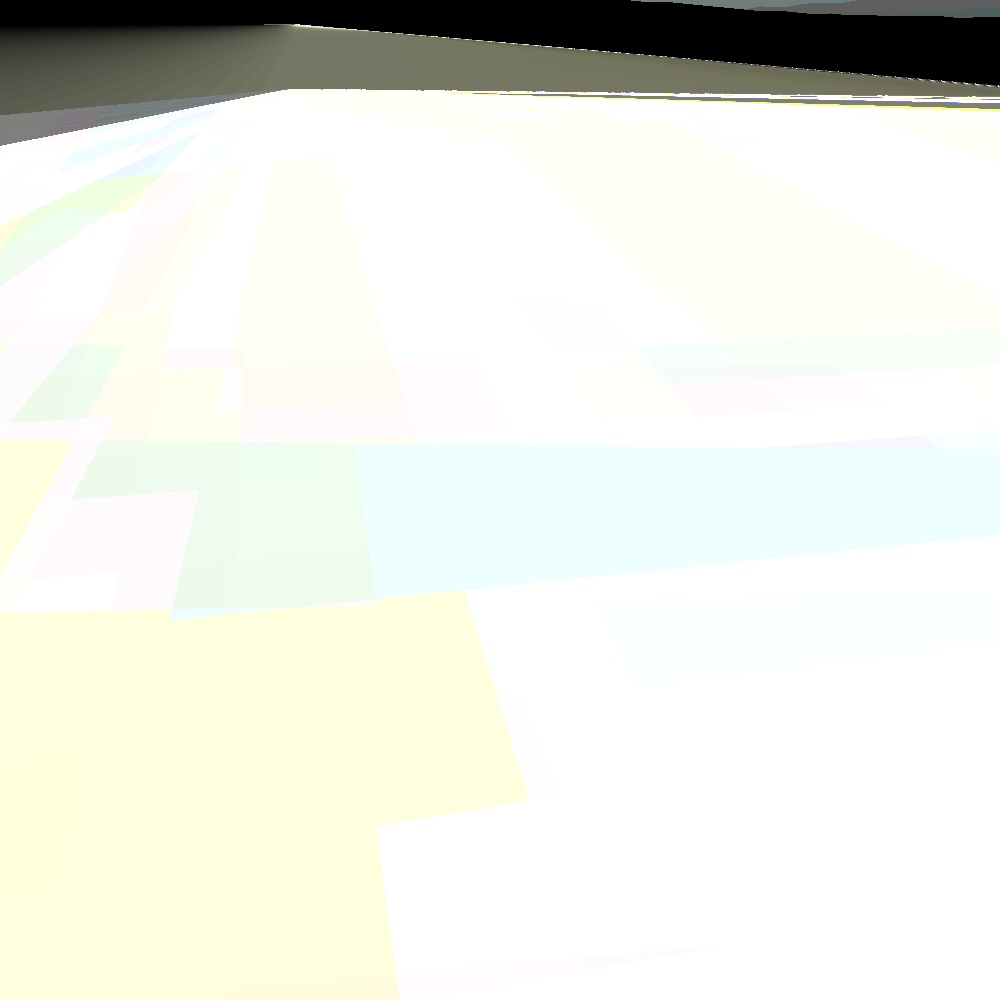
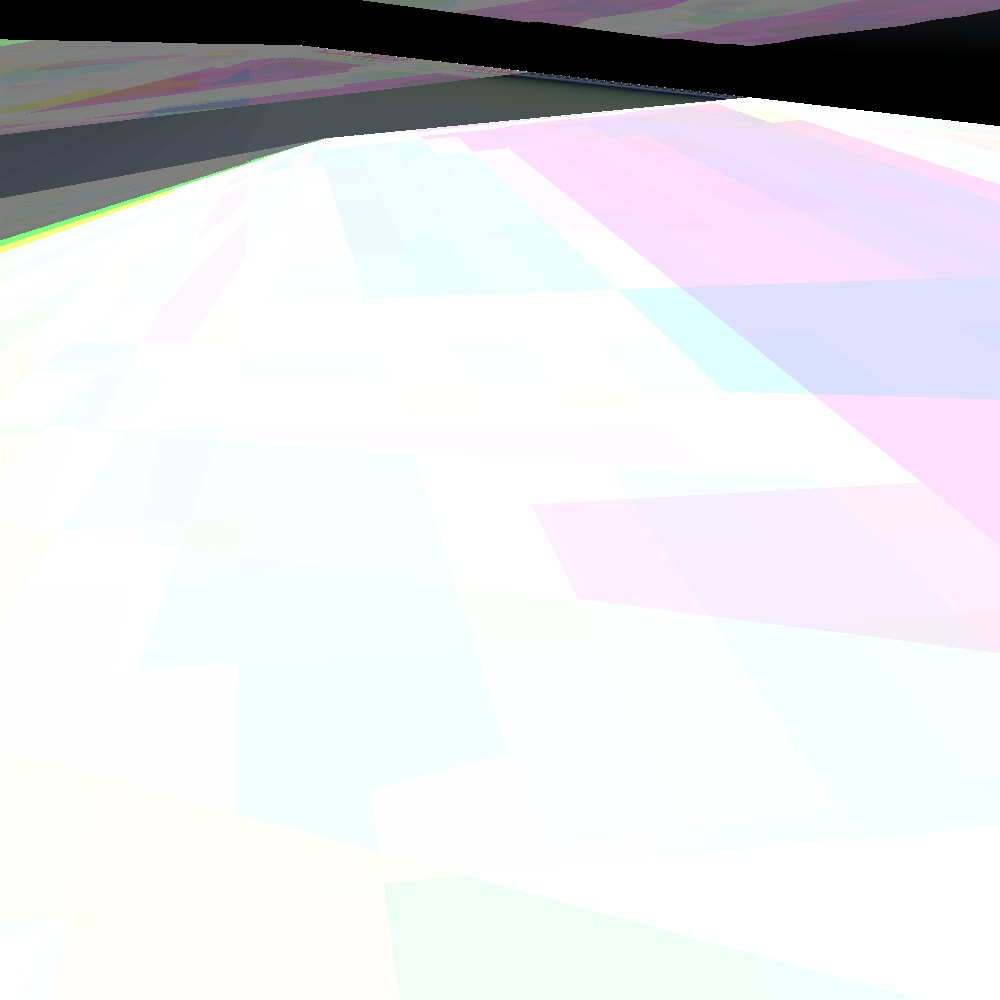
1129 0230

diff --git a/test.py b/test.py
@@ -1,0 +1,167 @@
+import cv2
+import numpy as np
+import pickle
+import threading
+import time
+
+
+def capture_frame(camera_index, results, lock):
+
+    cap = cv2.VideoCapture(camera_index)
+    if not cap.isOpened():
+        print(f"Cannot open camera {camera_index}")
+        return
+
+    time.sleep(0.1) 
+
+    ret, frame = cap.read()
+    if ret:
+        with lock:
+            results[camera_index] = frame
+    else:
+        print(f"Failed to grab frame from camera {camera_index}")
+    cap.release()
+
+def capture_images():
+
+    camera_indices = ['/dev/video0', '/dev/video4', '/dev/video8', '/dev/video25']
+    threads = []
+    results = {}
+    lock = threading.Lock()
+
+    # ? ???? ?? ????? ??
+    for idx in camera_indices:
+        thread = threading.Thread(target=capture_frame, args=(idx, results, lock))
+    
+        threads.append(thread)
+        thread.start()
+
+    # ?? ???? ??? ??? ??? ??
+    for thread in threads:
+        thread.join()
+
+    # ??? ??? ??? ???? ???? ??
+    return [results[idx] for idx in camera_indices if idx in results]
+
+def load_calibration_data(camera_indices):
+    calibration_data = {}
+    for idx in camera_indices:
+        with open(f'calibration_data_camera{idx}.pkl', 'rb') as f:
+            data = pickle.load(f)
+            calibration_data[idx] = {
+                'K': data['K'],
+                'D': data['D'],
+            }
+    return calibration_data
+
+def undistort_images(images, calibration_data):
+    undistorted_images = []
+    for idx, img in enumerate(images):
+        data = calibration_data[idx]
+        K = data['K']
+        D = data['D']
+        h, w = img.shape[:2]
+
+        new_K = cv2.fisheye.estimateNewCameraMatrixForUndistortRectify(
+            K, D, (w, h), np.eye(3), balance=0.0
+        )
+
+        map1, map2 = cv2.fisheye.initUndistortRectifyMap(
+            K, D, np.eye(3), new_K, (w, h), cv2.CV_16SC2
+        )
+
+        undistorted_img = cv2.remap(img, map1, map2, interpolation=cv2.INTER_LINEAR)
+        undistorted_images.append(undistorted_img)
+    return undistorted_images
+
+    
+def create_bev(calibration_data):
+    camera_indices = [0, 1, 2, 3]
+
+    # 1. ??? ??
+    images = capture_images()
+    if images is None:
+        print("???? ??? ? ????.")
+        return None
+    
+    undistorted_images = undistort_images(images, calibration_data)
+
+    camera_indices = [0, 1, 2, 3]
+    
+    # ? ???? ?? ?? ?? (???? ? ??? ??)
+    
+    source_points_list = [
+        np.float32([[6, 213], [632, 196], [26, 476], [629, 441]]),  # ??? 0
+        np.float32([[53, 210], [594, 197], [78, 472], [629, 432]]),  # ??? 1
+        np.float32([[112, 244], [565, 237], [34, 474], [581, 466]]),  # ??? 2
+        np.float32([[154, 214], [624, 228], [108, 474], [619, 470]])   # ??? 3
+    ]
+
+    # ??? ??: ???? ??? ??
+    destination_points_list = [
+        np.float32([[0, 700], [0, 400], [300, 700], [300, 400]]),   # ??? 0
+        np.float32([[1000, 400], [1000, 700], [700, 400], [700, 700]]),  # ??? 1
+        np.float32([[465, 0], [765, 0], [465, 300], [765, 300]]),   # ??? 2
+        np.float32([[235, 0], [535, 0], [235, 300], [535, 300]])    # ??? 3
+    ]
+    '''
+    source_points_list = [
+        np.float32([[0, 0], [640, 0], [0, 480], [640, 480]]),  # ??? 0
+        np.float32([[0, 0], [640, 0], [0, 480], [640, 480]]),  # ??? 1
+        np.float32([[0, 0], [640, 0], [0, 480], [640, 480]]),  # ??? 2
+        np.float32([[0, 0], [640, 0], [0, 480], [640, 480]])   # ??? 3
+    ]
+
+    # ??? ??: ???? ??? ??
+    destination_points_list = [
+        np.float32([[0, 700], [0, 400], [300, 700], [300, 400]]),   # ??? 0
+        np.float32([[1000, 400], [1000, 700], [700, 400], [700, 700]]),  # ??? 1
+        np.float32([[465, 0], [765, 0], [465, 300], [765, 300]]),   # ??? 2
+        np.float32([[235, 0], [535, 0], [235, 300], [535, 300]])    # ??? 3
+    ]
+    '''
+
+    # ??? ?? ??
+    canvas_width, canvas_height = 1000, 700
+    canvas = np.zeros((canvas_height, canvas_width, 3), dtype=np.uint8)
+
+    # ? ???? ???? ??
+    for idx, image_original in enumerate(undistorted_images):
+        # ?? ??? ??
+        if image_original is None:
+            print(f"???? ??? ? ????: {image_original}")
+            continue
+
+        # ?? ??? ??? ?? ??
+        pts1 = source_points_list[idx]
+        pts2 = destination_points_list[idx]
+
+        # ?? ?? ?? ??
+        H = cv2.getPerspectiveTransform(pts1, pts2)
+
+        # ?? ?? ??
+        img_warped = cv2.warpPerspective(image_original, H, (canvas_width, canvas_height))
+
+        # ??? ???? ???? ??
+        canvas = cv2.add(canvas, img_warped)
+        
+    return canvas
+    
+
+
+if __name__ == '__main__':
+    start_time = time.time()
+    camera_indices = [0, 1, 2, 3]
+
+    # ?????? ??? ??
+    calibration_data = {}
+    for idx in camera_indices:
+        with open(f'calibration_data_camera{idx}.pkl', 'rb') as f:
+            data = pickle.load(f)
+            calibration_data[idx] = data
+    
+    while True:
+        bev_image = create_bev(calibration_data)
+        cv2.imshow('Bird\'s Eye View', bev_image)
+        cv2.waitKey(1000)  # 5000??? = 5?
+        cv2.destroyAllWindows()
